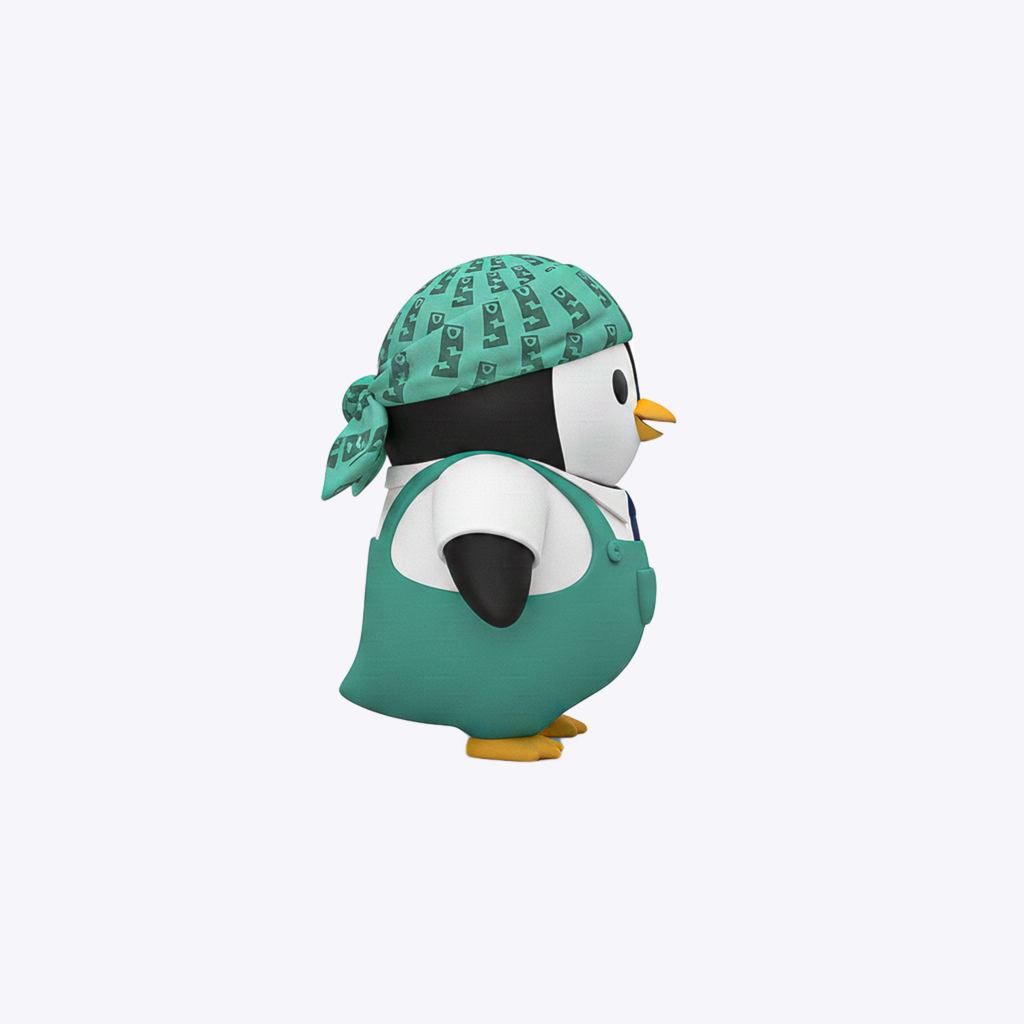
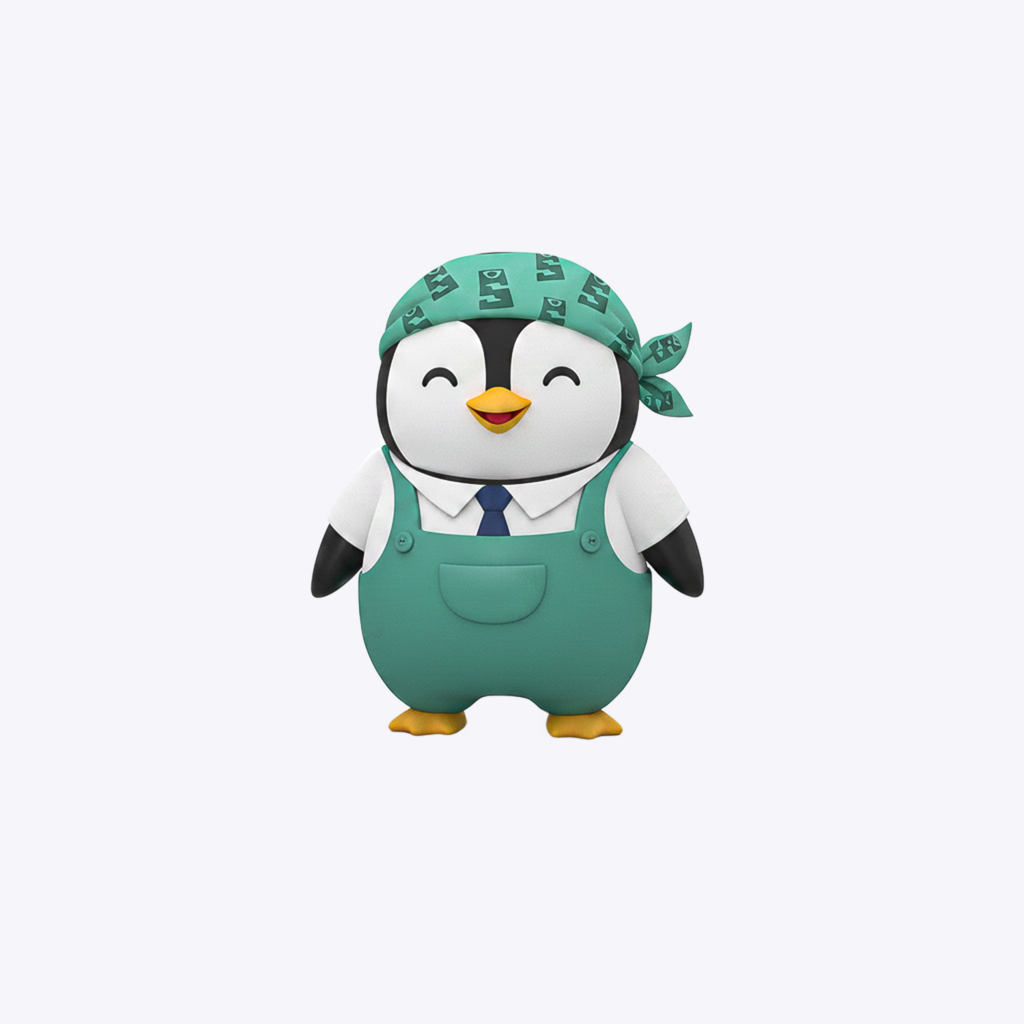
chore: name mascots by pose, accept phase 0 ADRs
- Rename mascots: rex-front/side/three-quarter, peggy-front/side/three-quarter
- Seller icon uses Rex front; Riders and Partners icons use Peggy front
- ADRs 0001 (build in this repo), 0002 (SMS hook route) and 0005 accepted by the owner
- No waving Peggy exists yet; peggyWave falls back to the three-quarter pose

Claude-Session: https://claude.ai/code/session_01VSaUCmhbebfBWcshD1ef5N

Changed region(s): [[0.2812, 0.2188, 0.6875, 0.75]]

diff --git a/packages/tokens/src/mascots.ts b/packages/tokens/src/mascots.ts
@@ -1,18 +1,24 @@
 /**
  * Rex (mint dinosaur, builds) and Peggy (penguin, runs the shop).
- * Files are 1024px copies of the old repo's public/brand/mascots. Resolve with your bundler,
- * e.g. `new URL(mascots.rex, import.meta.url)` or copy into an app's public folder.
+ * 1024px copies of the old repo's public/brand/mascots, named by pose:
+ *   rex-1 → rex-three-quarter, rex-2 → rex-side, rex-3 → rex-front
+ *   peggy-1 → peggy-side, peggy-2 → peggy-front, peggy-3 → peggy-three-quarter
+ * The spec's `peggy-wave` pose doesn't exist yet; `peggyWave` falls back to the three-quarter pose.
  */
 export const mascotFiles = {
-  'rex-1': 'assets/mascots/rex-1.png',
-  'rex-2': 'assets/mascots/rex-2.png',
-  'rex-3': 'assets/mascots/rex-3.png',
-  'peggy-1': 'assets/mascots/peggy-1.png',
-  'peggy-2': 'assets/mascots/peggy-2.png',
-  'peggy-3': 'assets/mascots/peggy-3.png',
+  'rex-front': 'assets/mascots/rex-front.png',
+  'rex-three-quarter': 'assets/mascots/rex-three-quarter.png',
+  'rex-side': 'assets/mascots/rex-side.png',
+  'peggy-front': 'assets/mascots/peggy-front.png',
+  'peggy-three-quarter': 'assets/mascots/peggy-three-quarter.png',
+  'peggy-side': 'assets/mascots/peggy-side.png',
 } as const;
 
+/** The spec's names (SPEC 5.4). */
 export const mascots = {
-  rex: mascotFiles['rex-1'],
-  peggy: mascotFiles['peggy-1'],
+  rex: mascotFiles['rex-front'],
+  rexSide: mascotFiles['rex-side'],
+  peggy: mascotFiles['peggy-front'],
+  /** TODO: replace when a waving Peggy is drawn. */
+  peggyWave: mascotFiles['peggy-three-quarter'],
 } as const;

diff --git a/docs/decisions/0005-design-token-choices.md b/docs/decisions/0005-design-token-choices.md
@@ -1,13 +1,17 @@
 # 0005 — Design token choices not fixed by the spec
 
-- Status: proposed
+- Status: accepted (owner, 2026-10-10)
 - Date: 2026-10-10
 
 - **Accent button text is ink (`#16141F`), not white.** White on `#FF6A2B` is about 2.9:1, below the spec's
   4.5:1 rule (SPEC 5.3). Ink on accent is about 6.4:1. If the prototype uses white, it needs a darker orange.
 - **`stores` is a reserved subdomain** besides the spec's list, because `stores.shopinbos.com` is the CNAME
   target for custom domains (SPEC 9.1 Domain).
-- Mascots: the old repo has `rex-1..3.png` and `peggy-1..3.png`, not the spec's `rex.png`/`rex-side.png`/
-  `peggy.png`/`peggy-wave.png`. They're copied at 1024px to `packages/tokens/assets/mascots/`; `rex` and `peggy`
-  point at the `-1` variants. Rename when the owner confirms which pose is which.
+- Mascots: the old repo has `rex-1..3.png` and `peggy-1..3.png`. They're renamed by pose in
+  `packages/tokens/assets/mascots/` (checked by eye):
+  - `rex-1` → `rex-three-quarter`, `rex-2` → `rex-side`, `rex-3` → `rex-front`
+  - `peggy-1` → `peggy-side` (back three-quarter), `peggy-2` → `peggy-front`, `peggy-3` → `peggy-three-quarter`
+  - The spec's `rex.png` = `rex-front`, `rex-side.png` = `rex-side`, `peggy.png` = `peggy-front`.
+  - There is **no waving Peggy**. `peggyWave` uses `peggy-three-quarter` until one is drawn.
+  - App icons: Seller uses `rex-front`; Riders and Partners use `peggy-front`.
 - A unit test enforces 4.5:1 contrast for each text/background token pair.

diff --git a/docs/decisions/0001-monorepo-in-this-repo.md b/docs/decisions/0001-monorepo-in-this-repo.md
@@ -1,6 +1,6 @@
 # 0001 — Build the new monorepo in `shopinbos-app`, keep the old app in `legacy/`
 
-- Status: proposed (owner to confirm)
+- Status: accepted (owner, 2026-10-10)
 - Date: 2026-10-10
 
 ## Context
@@ -16,7 +16,7 @@ pnpm workspace, ignored by lint, format and CI.
 
 ## Consequences
 
-- If the owner prefers the separate `Techdella/shopinbos` repo, this branch can be pushed there as-is.
+- The owner chose to keep building in `shopinbos-app`; there is no separate `Techdella/shopinbos` repo.
 - Production for the old app keeps deploying from `main` until this PR merges. Merging changes what
   the existing Vercel project builds: point that project's root at `apps/web` or create the new Vercel project first.
 - Delete `legacy/` once nothing in it is needed (ask the owner first).

diff --git a/docs/decisions/0002-send-sms-hook-as-route-handler.md b/docs/decisions/0002-send-sms-hook-as-route-handler.md
@@ -1,6 +1,6 @@
 # 0002 — Supabase Send SMS hook runs as a Next.js route, not an Edge Function
 
-- Status: proposed (owner to confirm; this touches auth)
+- Status: accepted (owner, 2026-10-10)
 - Date: 2026-10-10
 
 ## Context
